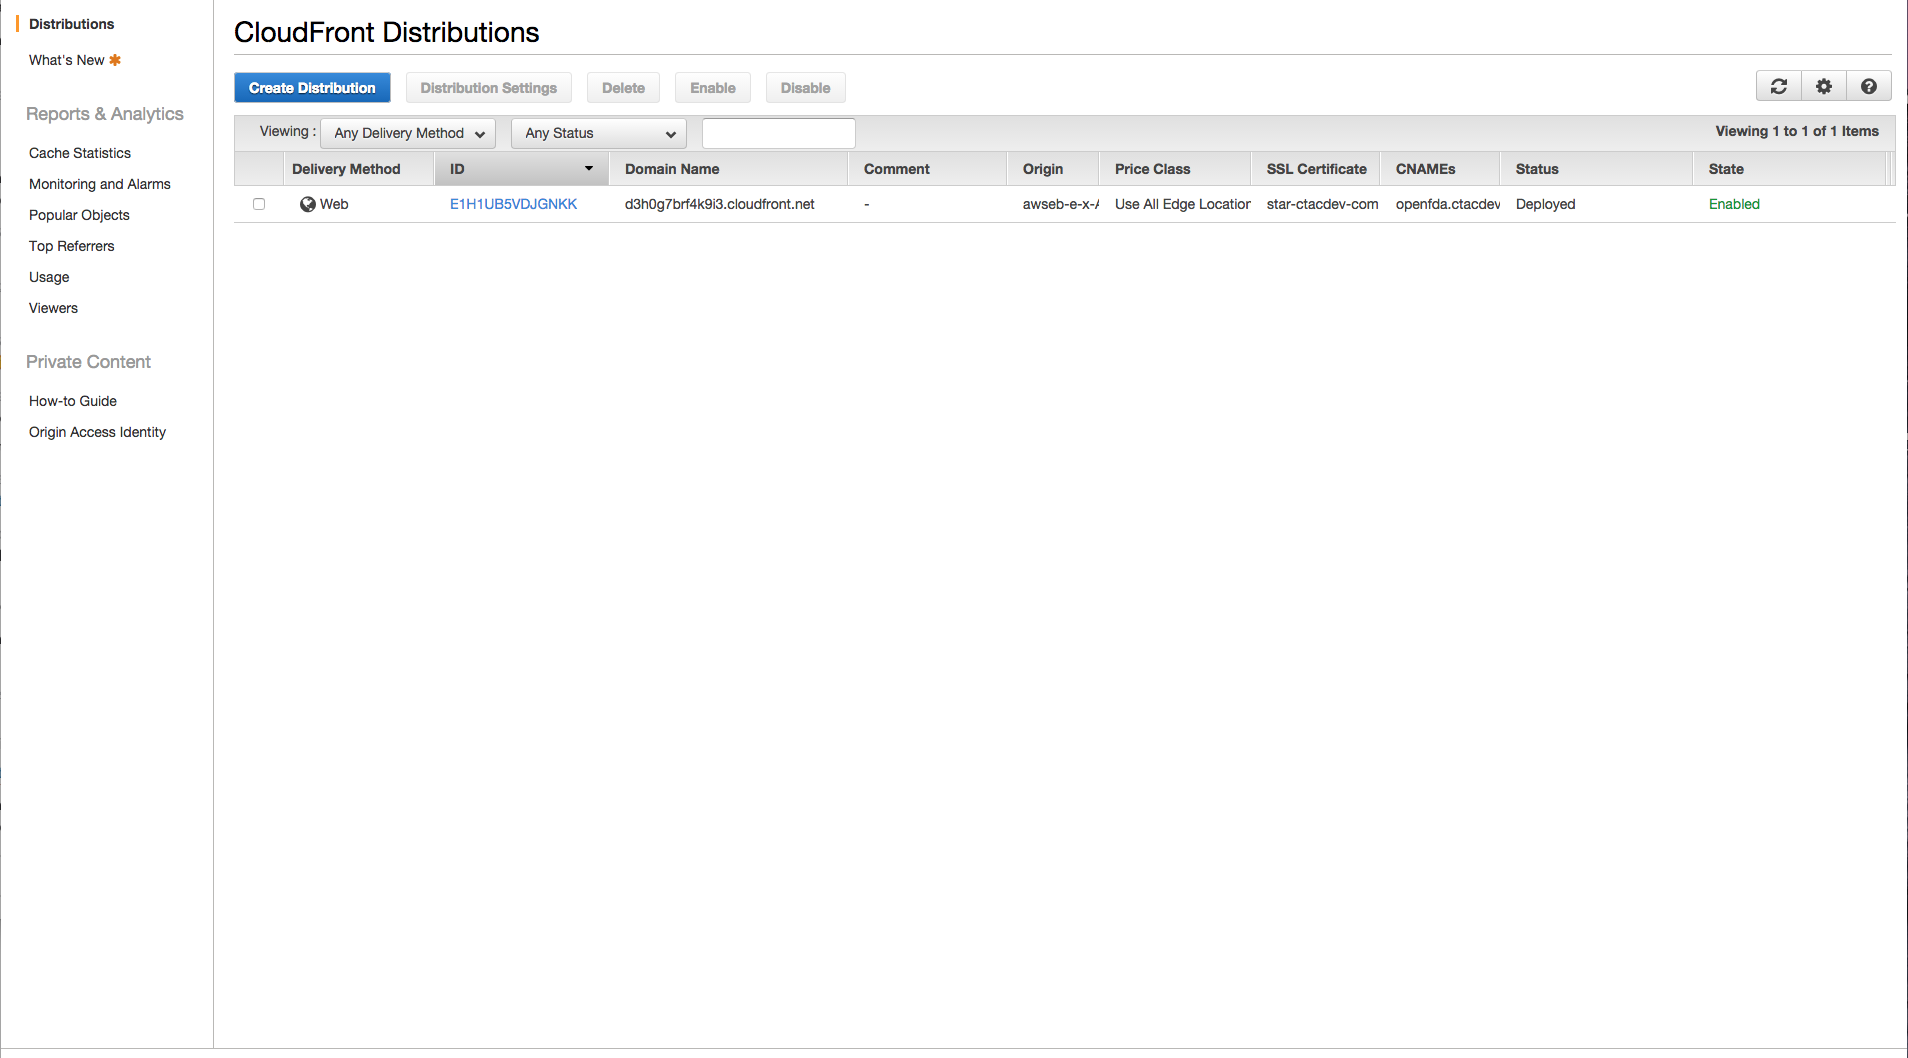
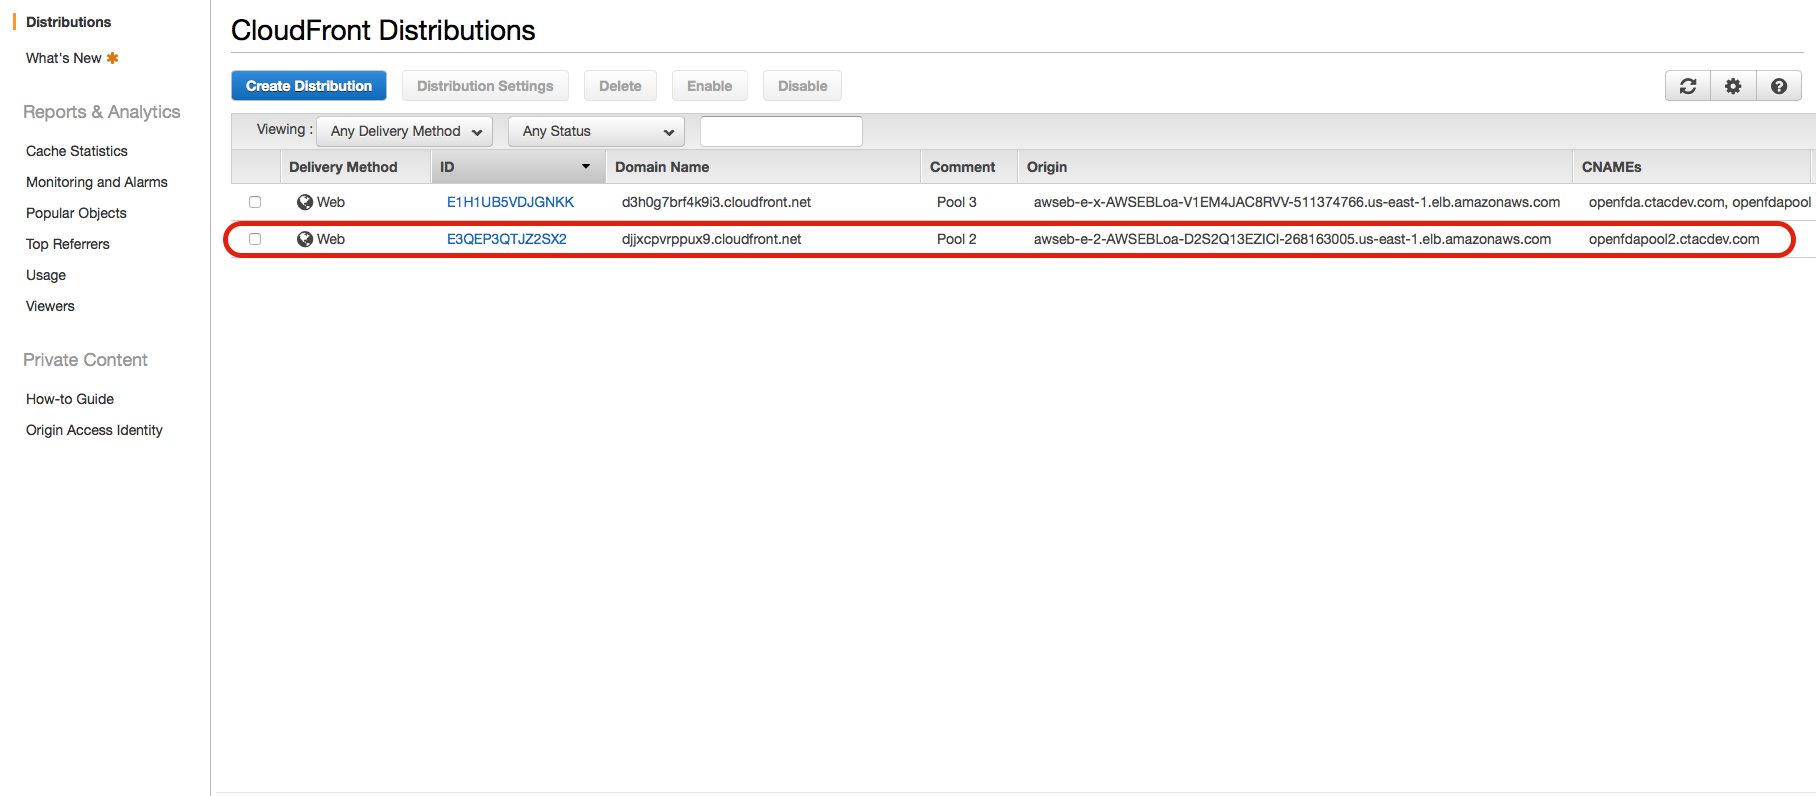
updated screenshots for pool 2

Changed region(s): [[0.0, 0.0, 1.0, 0.5427]]

diff --git a/doc/readme/evidence.md b/doc/readme/evidence.md
@@ -24,7 +24,7 @@ d.)
 - [Elastic Beanstalk screenshot](../../doc/screenshots/aws/ElasticBeanstalk.png)
 - [Elastic Beanstalk Cloudwatch Metrics screenshot](../../doc/screenshots/aws/EB_Cloudwatch_Metrics.png)
 - [Elastic Beanstalk configuration screenshot](../../doc/screenshots/aws/EB_Config.png)
-- [Elastic Beanstalk dashboard screenshot](../../doc/screenshots/aws/EB_Dhasboard.png)
+- [Elastic Beanstalk dashboard screenshot](../../doc/screenshots/aws/EB_Dashboard.png)
 - [Elastic Beanstalk logs screenshot](../../doc/screenshots/aws/EB_Logs.png)
 - [EC2 screenshot](../../doc/screenshots/aws/EC2.png)
 - [S3 screenshot](../../doc/screenshots/aws/S3.png)
@@ -78,7 +78,7 @@ i.)
 - [Elastic Beanstalk screenshot](../../doc/screenshots/aws/ElasticBeanstalk.png)
 - [Elastic Beanstalk Cloudwatch Metrics screenshot](../../doc/screenshots/aws/EB_Cloudwatch_Metrics.png)
 - [Elastic Beanstalk configuration screenshot](../../doc/screenshots/aws/EB_Config.png)
-- [Elastic Beanstalk dashboard screenshot](../../doc/screenshots/aws/EB_Dhasboard.png)
+- [Elastic Beanstalk dashboard screenshot](../../doc/screenshots/aws/EB_Dashboard.png)
 - [Elastic Beanstalk logs screenshot](../../doc/screenshots/aws/EB_Logs.png)
 
 j.)
